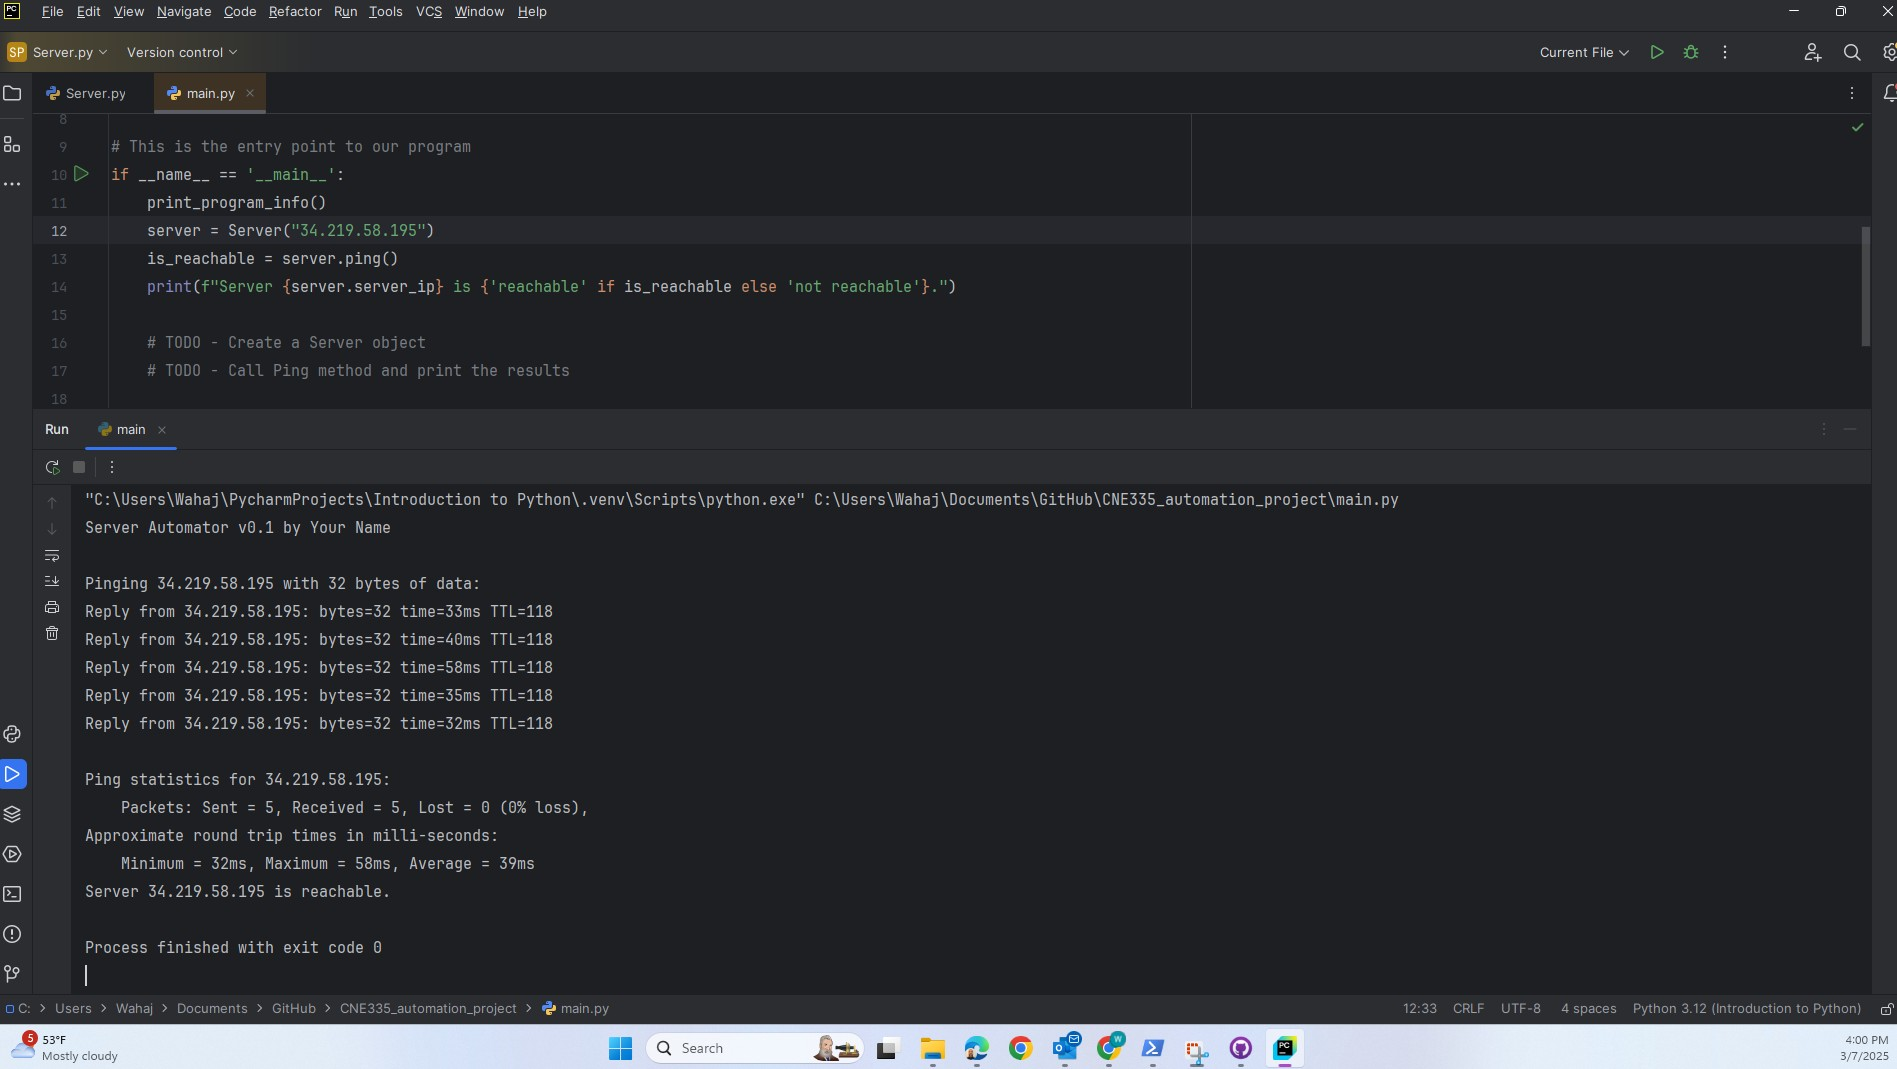
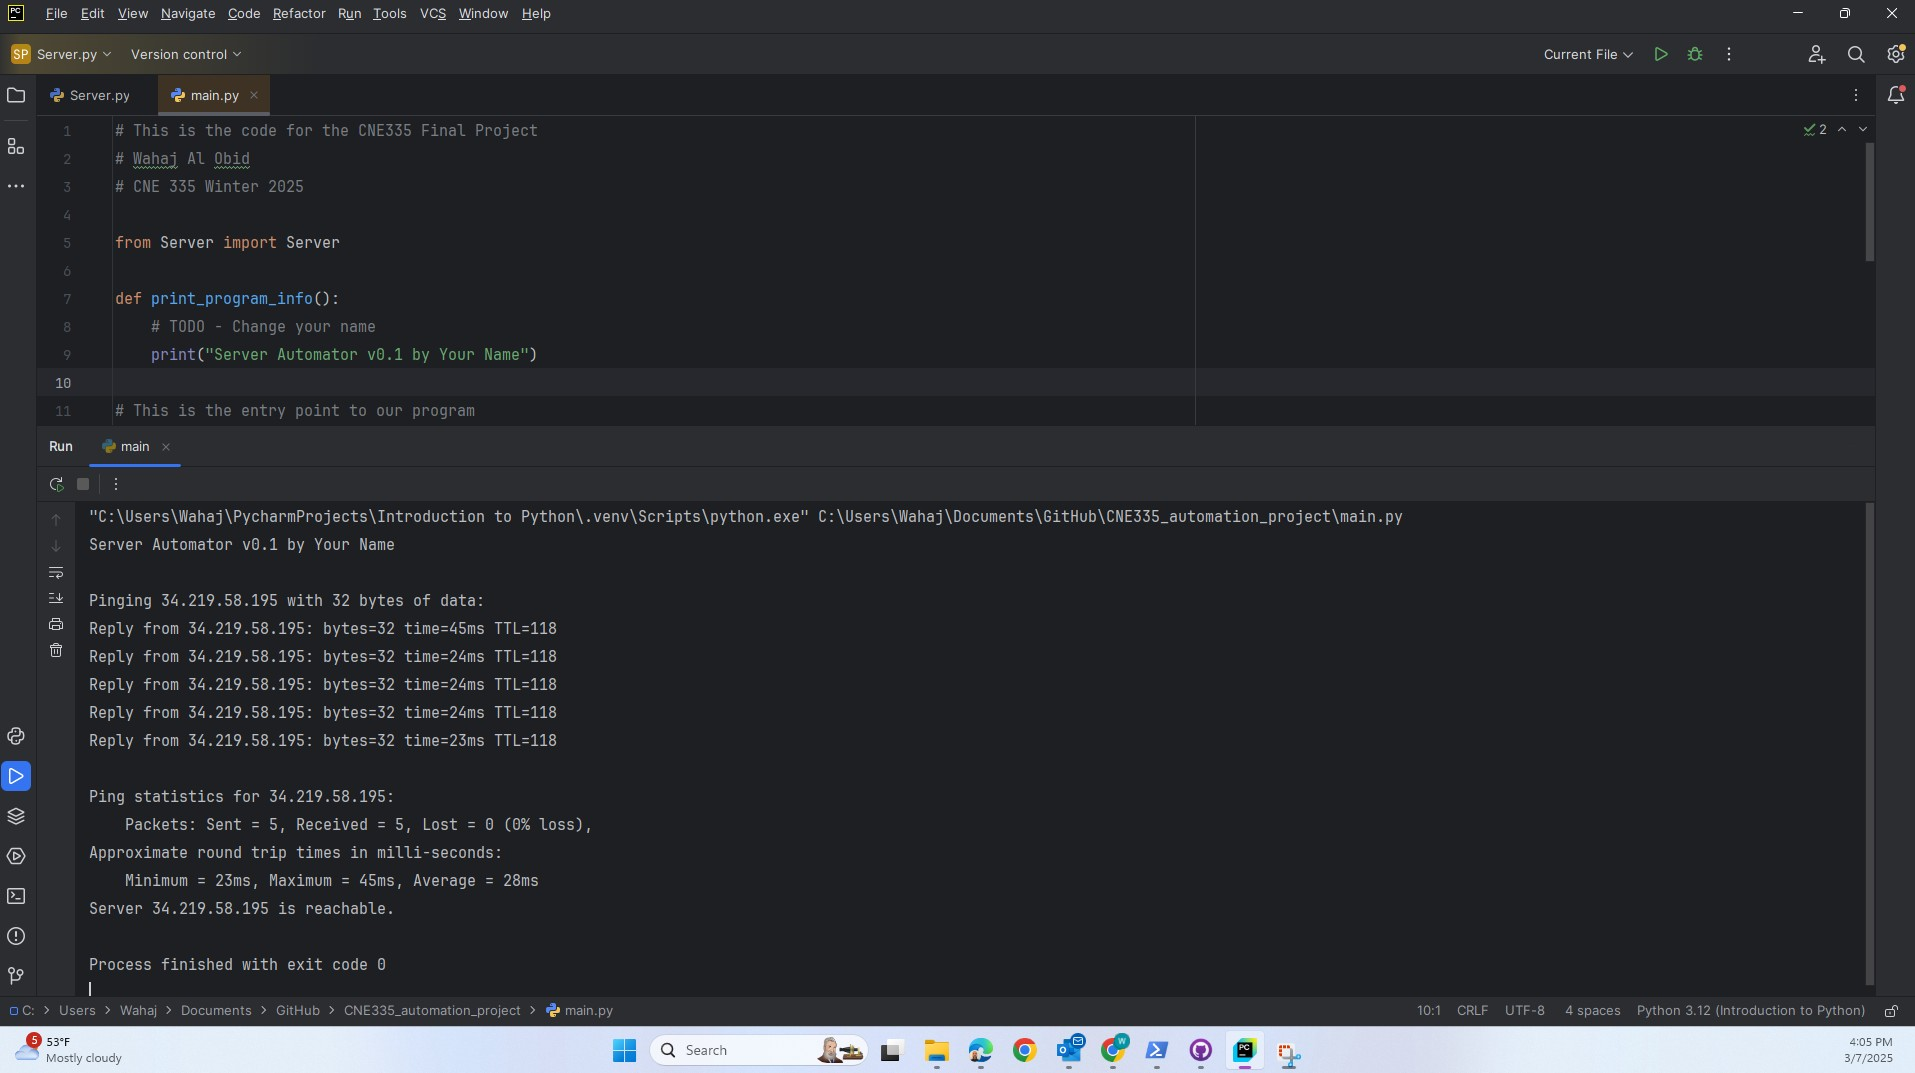
made some finalize

diff --git a/main.py b/main.py
@@ -1,7 +1,9 @@
-# This is the template code for the CNE335 Final Project
-# Justin Ellis
-# CNE 335 Fall
+# This is the code for the CNE335 Final Project
+# Wahaj Al Obid
+# CNE 335 Winter 2025
+
 from Server import Server
+
 def print_program_info():
     # TODO - Change your name
     print("Server Automator v0.1 by Your Name")
@@ -9,9 +11,10 @@ def print_program_info():
 # This is the entry point to our program
 if __name__ == '__main__':
     print_program_info()
-    server = Server("34.219.58.195")
-    is_reachable = server.ping()
-    print(f"Server {server.server_ip} is {'reachable' if is_reachable else 'not reachable'}.")
 
     # TODO - Create a Server object
+    server = Server("34.219.58.195")
+
     # TODO - Call Ping method and print the results
+    is_reachable = server.ping()
+    print(f"Server {server.server_ip} is {'reachable' if is_reachable else 'not reachable'}.")

diff --git a/Server.py b/Server.py
@@ -1,6 +1,4 @@
 import os
-import platform
-import subprocess
 
 class Server:
     """ Server class for representing and manipulating servers. """
